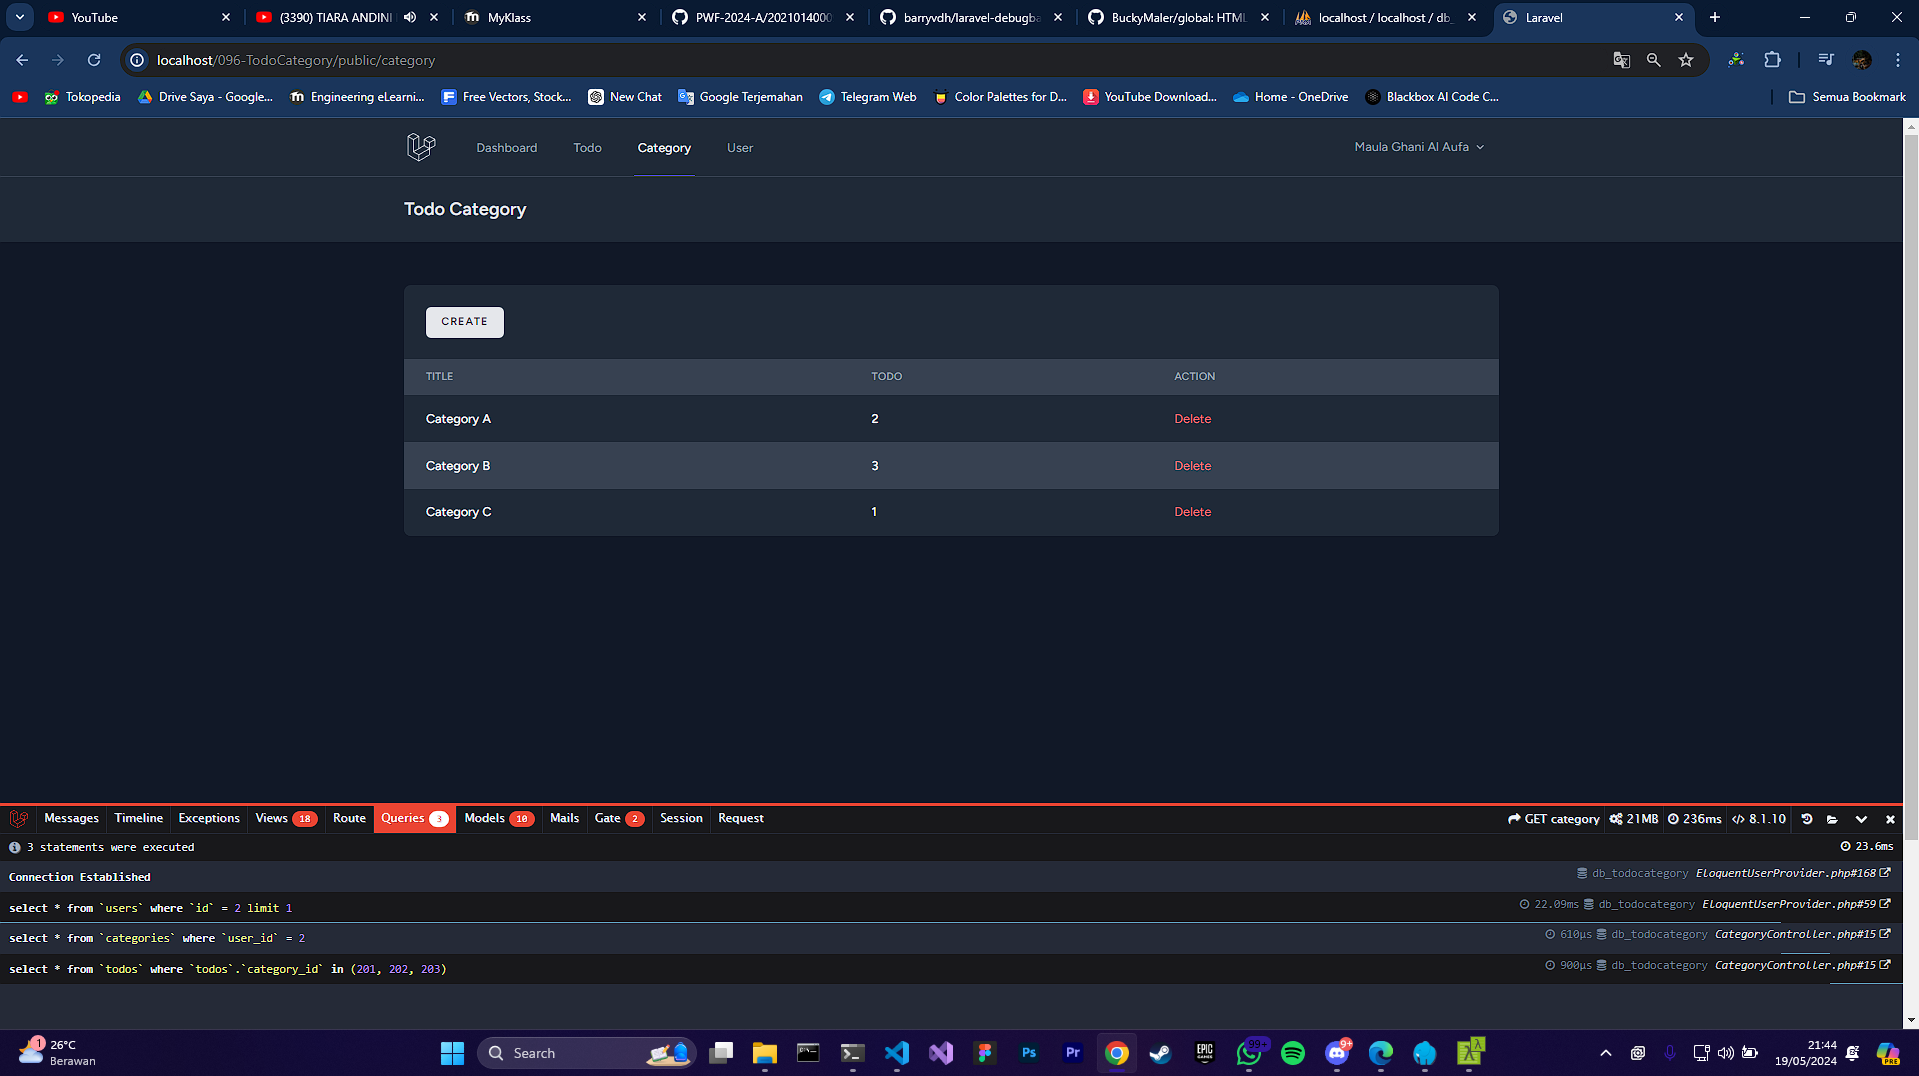
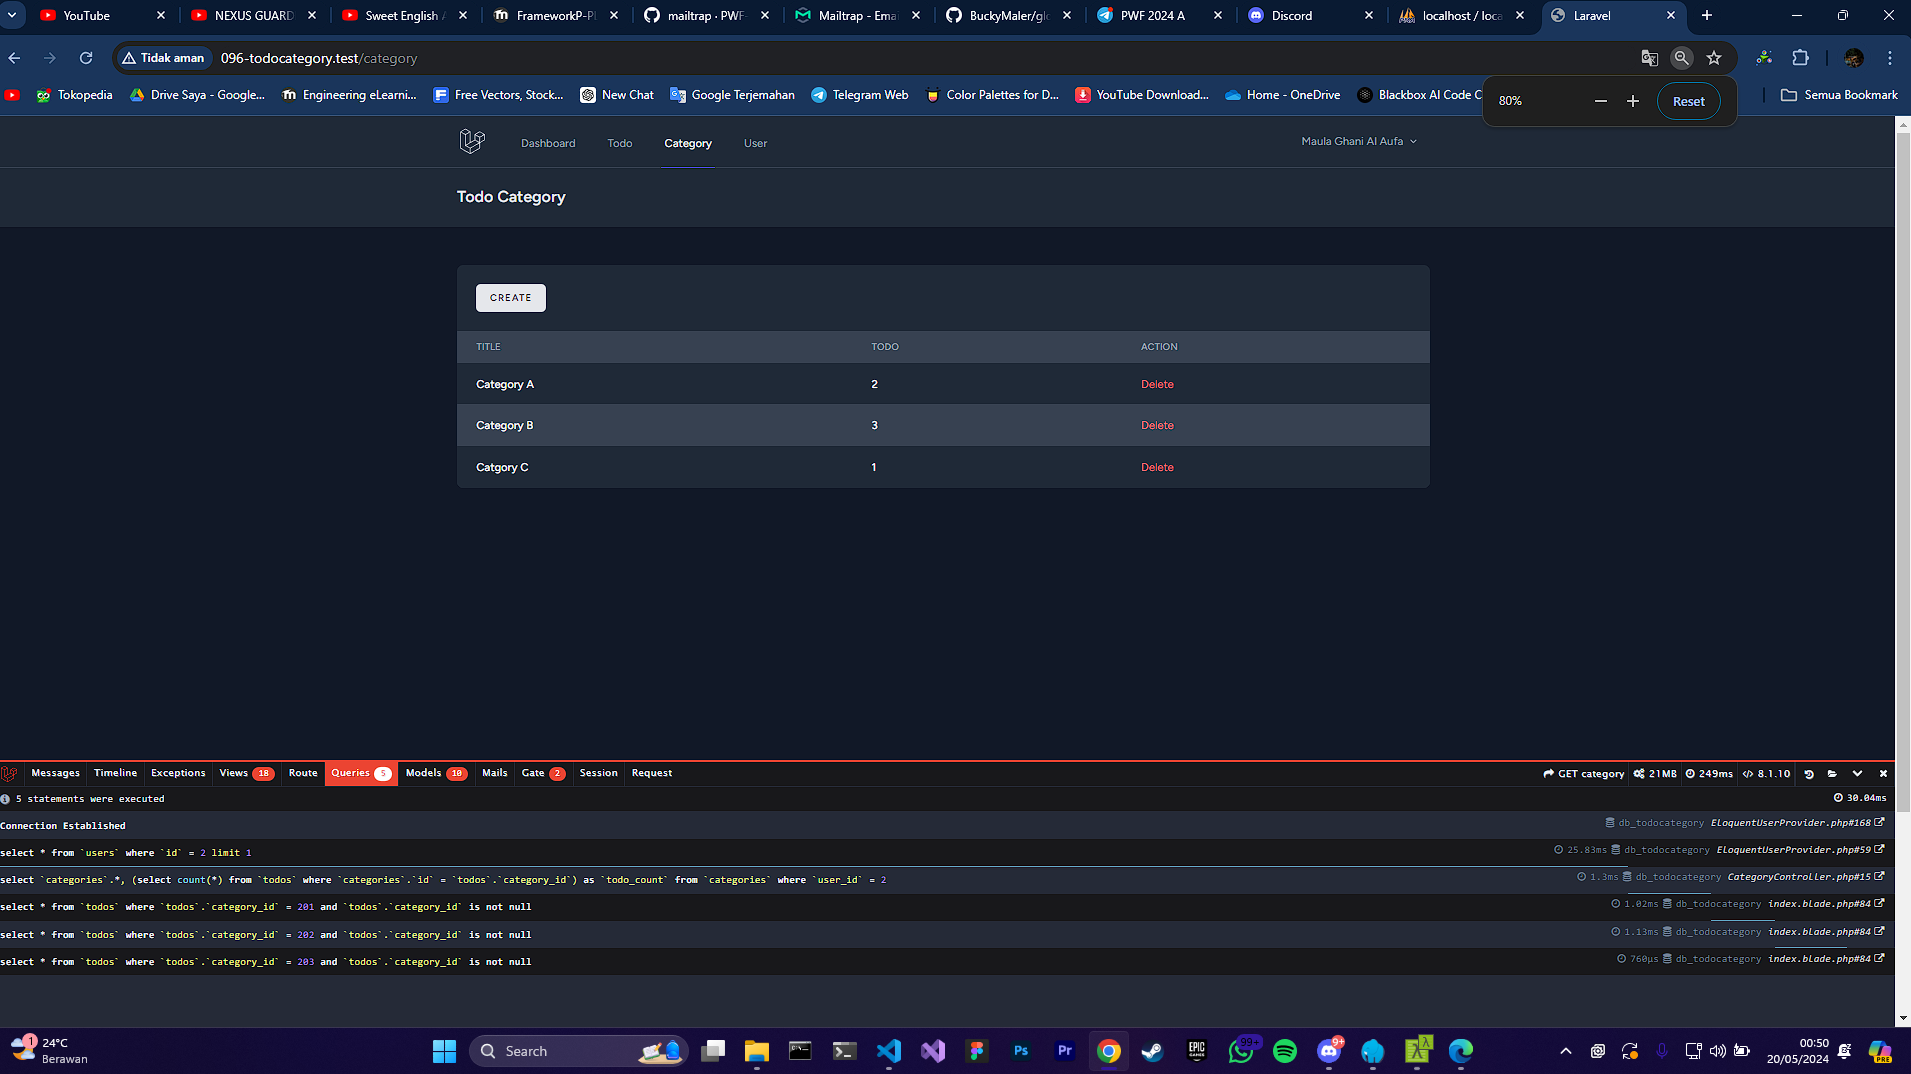
n+1 problem fix (2)

diff --git a/routes/web.php b/routes/web.php
@@ -25,7 +25,7 @@ Route::get('/dashboard', function () {
     return view('dashboard');
 })->middleware(['auth', 'verified'])->name('dashboard');
 
-Route::middleware('auth')->group(function () {
+Route::middleware(['auth', 'verified'])->group(function () {
     Route::get('/profile', [ProfileController::class, 'edit'])->name('profile.edit');
     Route::patch('/profile', [ProfileController::class, 'update'])->name('profile.update');
     Route::delete('/profile', [ProfileController::class, 'destroy'])->name('profile.destroy');

diff --git a/app/Models/User.php b/app/Models/User.php
@@ -2,13 +2,14 @@
 
 namespace App\Models;
 
-// use Illuminate\Contracts\Auth\MustVerifyEmail;
+use Illuminate\Contracts\Auth\MustVerifyEmail;
+
 use Illuminate\Database\Eloquent\Factories\HasFactory;
 use Illuminate\Foundation\Auth\User as Authenticatable;
 use Illuminate\Notifications\Notifiable;
 use Laravel\Sanctum\HasApiTokens;
 
-class User extends Authenticatable
+class User extends Authenticatable implements MustVerifyEmail
 {
     use HasApiTokens, HasFactory, Notifiable;
 

diff --git a/app/Http/Controllers/CategoryController.php b/app/Http/Controllers/CategoryController.php
@@ -12,7 +12,7 @@ class CategoryController extends Controller
      */
     public function index()
     {
-        $categories = Category::with('todo')->where('user_id', auth()->user()->id)->get();
+        $categories = Category::withcount('todo')->where('user_id', auth()->user()->id)->get();
         return view('category.index', compact('categories'));
     }
 

diff --git a/tugas9.md b/tugas9.md
@@ -1,8 +1,8 @@
 # Tugas 9
 
 ## 1. Browser Todo
-![Alt text](screenshot/tugas9/todo.png)
+![Alt text](screenshot/tugas9/Todo.png)
 ## 2. Browser Category
 ![Alt text](screenshot/tugas9/category.png)
 ## 3. Browser User
-![Alt text](screenshot/tugas9/user.png.png)
+![Alt text](screenshot/tugas9/User.png)
